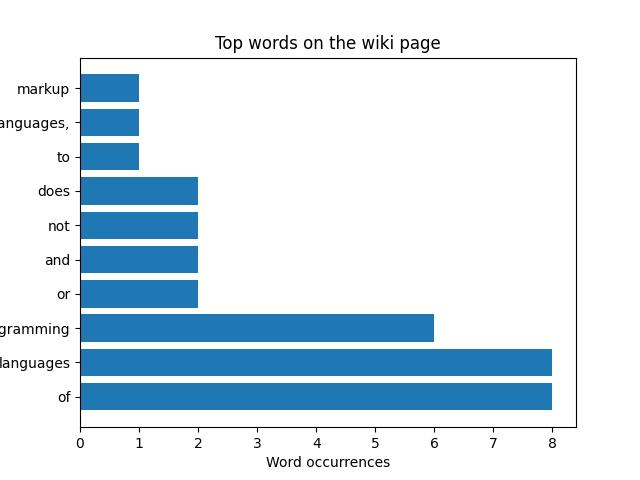
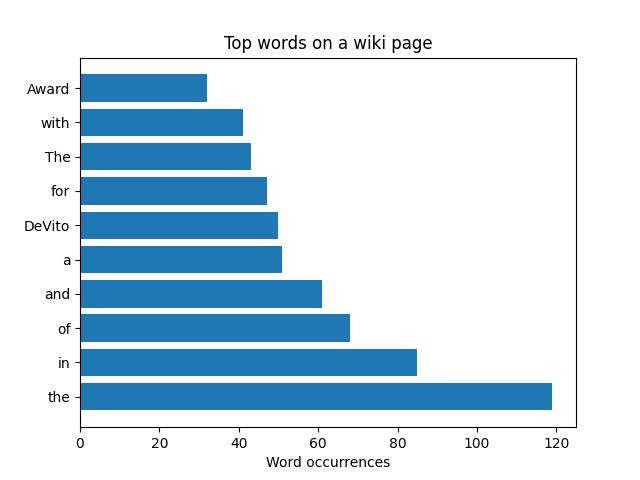
Added title of links to the counter

diff --git a/counter.py b/counter.py
@@ -21,16 +21,23 @@ def get_text(page):
     """
     wiki_set_of_text = list()
     page_text = page.text
-    wiki_set_of_text = page_text.split()
+    text_no_links = page_text.split()
+    wiki_links = page.links
+    text_links = list()
+    for title in sorted(wiki_links.keys()):
+            split_title = title.split()
+            for split in split_title:
+                if split.isalnum():
+                    text_links.append(split)
+    wiki_set_of_text = text_no_links + text_links
     return wiki_set_of_text
 
 def count_words(wiki_set_of_text):
     dict_of_words = {}
     for word in wiki_set_of_text:
         if word in dict_of_words:
-            if word.lower() == word:
-                value_buffer = dict_of_words[word]
-                dict_of_words[word] = value_buffer+1
+            value_buffer = dict_of_words[word]
+            dict_of_words[word] = value_buffer+1
         else:
             dict_of_words[word] = 0
     return dict_of_words
@@ -43,7 +50,7 @@ def create_graph(completed_dict, graph_num):
     When graph is finished then this will print the top programming 
     languages and and their values to the console.
     
-    Source help: https://matplotlib.org/stable/gallery/lines_bars_and_markers/barh.html
+    https://matplotlib.org/stable/gallery/lines_bars_and_markers/barh.html
 
     Args:
         completed_dict (dictionary): Completed dictionary to be split
@@ -58,7 +65,7 @@ def create_graph(completed_dict, graph_num):
     ax.set_yticks(y_pos)
     ax.set_yticklabels(language)
     ax.set_xlabel('Word occurrences')
-    ax.set_title('Top words on the wiki page')
+    ax.set_title('Top words on a wiki page')
     plt.savefig("words.jpg")
     print("Top", graph_num, " word in the wiki page")
     list_length = len(number) #Extraneous variable suppresses enumerate warning
@@ -88,28 +95,24 @@ def list_from_dict(complete_dict_list, graph_num):
 
 ##########################################################################
 
-def main(num_to_show):
+def main():
     """ 
         Parameters:
         num_to_show -- Number of top languages to show in ranking
     """
+    title_of_page = "Danny DeVito"
+    top_words = 10
     print("Accessing Wikipedia API")
     wiki_wiki = wapi.Wikipedia('en')
-    page = wiki_wiki.page('List of programming languages')
+    page = wiki_wiki.page(title_of_page)
     print("Getting text")
     wall_of_text = get_text(page)
-    print(wall_of_text)
+    #print(wall_of_text)
     print("Counting words")
-    #completed_dict = count_words(wall_of_text)
-    #sorted_dict = dict(sorted(completed_dict.items(), key=lambda item:item[1], reverse=True)) # Sort puts smallest value first
-    #create_graph(sorted_dict, num_to_show)
+    completed_dict = count_words(wall_of_text)
+    sorted_dict = dict(sorted(completed_dict.items(), key=lambda item:item[1], reverse=True)) # Sort puts smallest value first
+    create_graph(sorted_dict, top_words)
 
-if __name__ == '__main__':
-    # Verify proper command line arguments
-    if len(sys.argv) != 2 or any(not char.isdigit() for char in sys.argv[1]):
-        print("Exactly one numeric argument is required defining the number of results to list")
-        print("Example: python counter.py 50")
-        quit()
-
-    num_to_show = int(sys.argv[1])
-    main(num_to_show)
+if __name__ == "__main__":
+    # execute only if run as a script
+    main()
